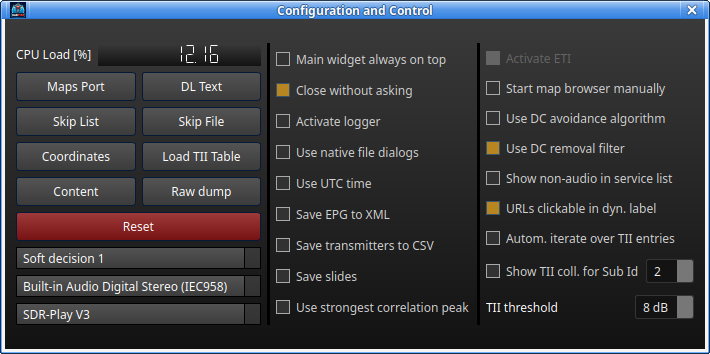
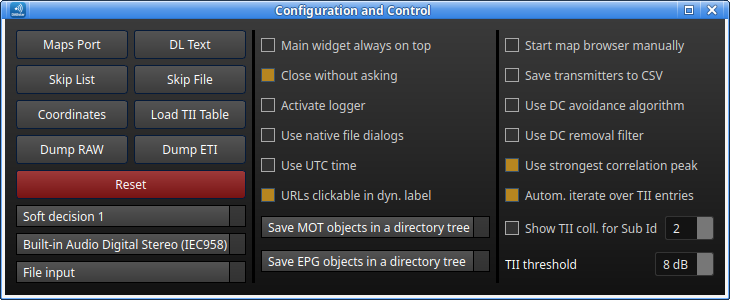
Update README for V4.0.0 with new images

diff --git a/README.md b/README.md
@@ -2,11 +2,11 @@
 
 ## Table of Content
 <!-- TOC -->
-* [DABstar](#dabstar)
-  * [Table of Content](#table-of-content)
-  * [Pictures from version V3.10.0](#pictures-from-version-v3100)
+  * [Pictures from version V4.0.0](#pictures-from-version-v400-)
     * [Main window](#main-window-)
     * [Scope Spectrum Correlation Statistic window](#scope-spectrum-correlation-statistic-window)
+    * [FIB content window](#fib-content-window)
+    * [Journaline window](#journaline-window)
     * [TII-list window which shows received transmitter details](#tii-list-window-which-shows-received-transmitter-details)
     * [Map view of received transmitters](#map-view-of-received-transmitters)
     * [Technical details window of the selected service](#technical-details-window-of-the-selected-service)
@@ -36,10 +36,11 @@
     * [Installing USRP UHD](#installing-usrp-uhd)
     * [Installing AirSpy](#installing-airspy)
   * [Licences](#licences)
+    * [Journaline](#journaline)
 <!-- TOC -->
 
 ---
-## Pictures from version V3.10.0
+## Pictures from version V4.0.0 
 
 ### Main window                                 
 
@@ -48,6 +49,14 @@
 ### Scope Spectrum Correlation Statistic window
 
 ![](res/for_readme/scope-spec-corr.png)
+
+### FIB content window
+
+![](res/for_readme/fib-content.png)
+
+### Journaline window
+
+![](res/for_readme/journaline.png)
 
 ### TII-list window which shows received transmitter details
 
